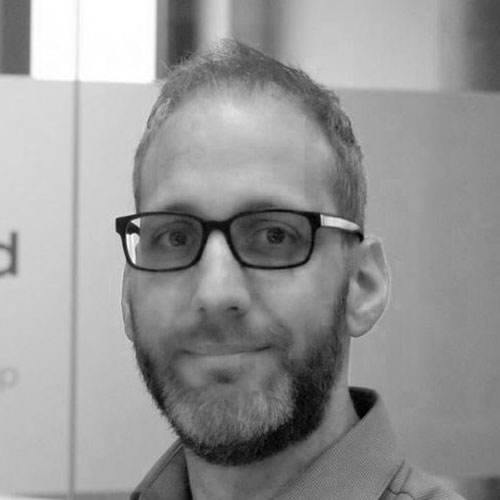
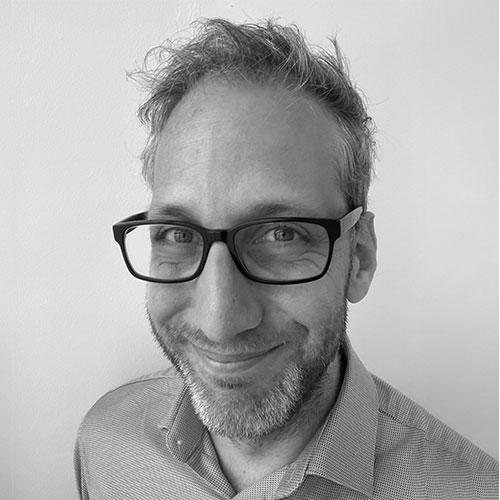
Updated colin's headshot, spelling in katja's bio

diff --git a/_speakers/katja-mordaunt.md b/_speakers/katja-mordaunt.md
@@ -49,6 +49,6 @@ In this session, she'll share some techniques and examples that could help you r
 
 <h3>Bio</h3>
 
-Katja was until recently, employed as a lead developer at neontribe.co.uk where she specialised in the design and implementation of digital services aiing to improve the reach of small charities. She has over 12 years experience in web app development. As a kaleider.com resident, she values creative collaboration. She works iteratively with clients to get as close as possible to what people need out of the products she builds.
+Katja was until recently, employed as a lead developer at neontribe.co.uk where she specialised in the design and implementation of digital services aiming to improve the reach of small charities. She has over 12 years experience in web app development. As a kaleider.com resident, she values creative collaboration. She works iteratively with clients to get as close as possible to what people need out of the products she builds.
 
 She values community, open source, transparency, integrity, generally sharing stuff and giving everyone a voice.
